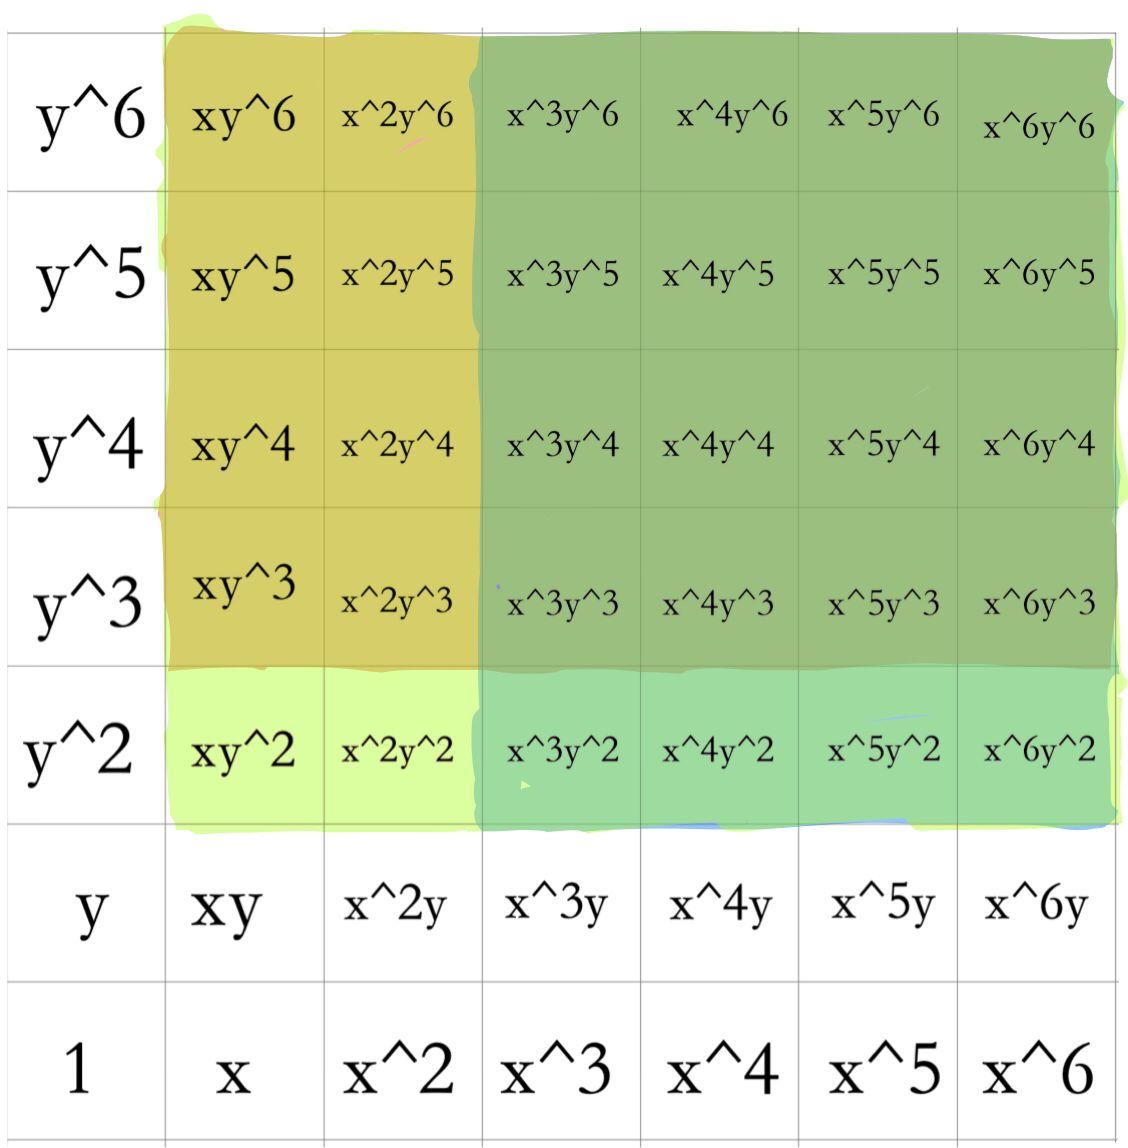
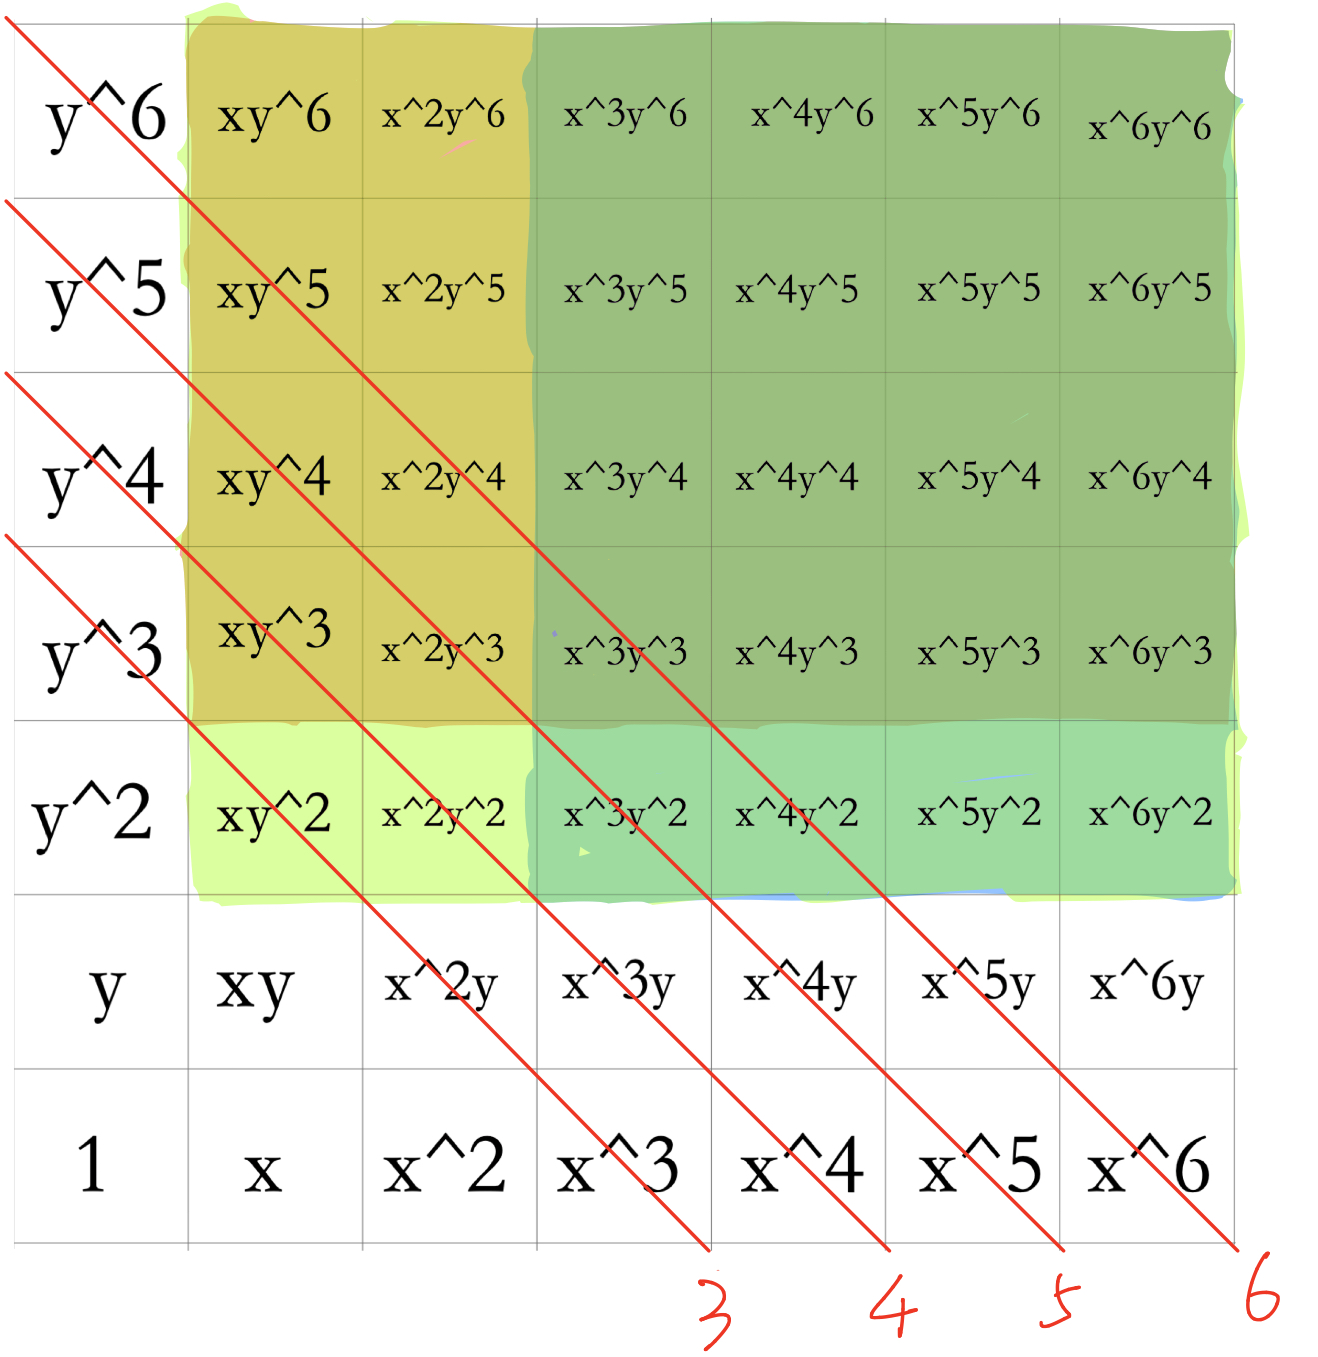
Modified the slides and added a new picture

diff --git a/LogMMidtermPresentationImages/LogM_Midterm_Presentation.tex b/LogMMidtermPresentationImages/LogM_Midterm_Presentation.tex
@@ -112,18 +112,35 @@
 
 \begin{frame}
 \frametitle{Key Concept 4 : Saturation: Sense of Equivalence}
-% \includegraphics[width=6cm, height=6cm]{grid1}
+\begin{center}
+	
+\end{center}
+\begin{itemize}
+	\item \(I_1 = (xy^3)\)
+\end{itemize}
 	
 \end{frame}
 
 \begin{frame}
 \frametitle{Key Concept 4 : Saturation: Sense of Equivalence}
-% \includegraphics[width=6cm, height=6cm]{grid2}
+\begin{center}
+	
+\end{center}
+\begin{itemize}
+	\item \(I_1 = (xy^3)\)
+	\item \(I_2 = (x^3y^2)\)
+\end{itemize}
 	
 \end{frame}
 
 \begin{frame}
 \frametitle{Key Concept 4 : Saturation: Sense of Equivalence}
+\begin{center}
+	
+\end{center}
+\begin{itemize}
+	\item \(I_12 = (xy^3, xy^3)\)
+\end{itemize}
 % \includegraphics[width=6cm, height=6cm]{grid3}
 	
 \end{frame}
@@ -131,6 +148,25 @@
 \begin{frame}
 \frametitle{Key Concept 4 : Saturation: Sense of Equivalence}
 % \includegraphics[width=6cm, height=6cm]{grid4}
+\begin{center}
+	
+\end{center}
+\begin{itemize}
+	\item \(I_12 = (xy^3, xy^3)\)
+	\item \(I_3 = (xy^2)\)
+\end{itemize}
+	
+\end{frame}
+
+\frametitle{Key Concept 4 : Saturation: Sense of Equivalence}
+% \includegraphics[width=6cm, height=6cm]{grid4}
+\begin{center}
+	
+\end{center}
+\begin{itemize}
+	\item \(I_3 = (xy^2)\)
+	\item Why is \(H_{I_3}(d) = 3\) ? Count the rows!
+\end{itemize}
 	
 \end{frame}
 
